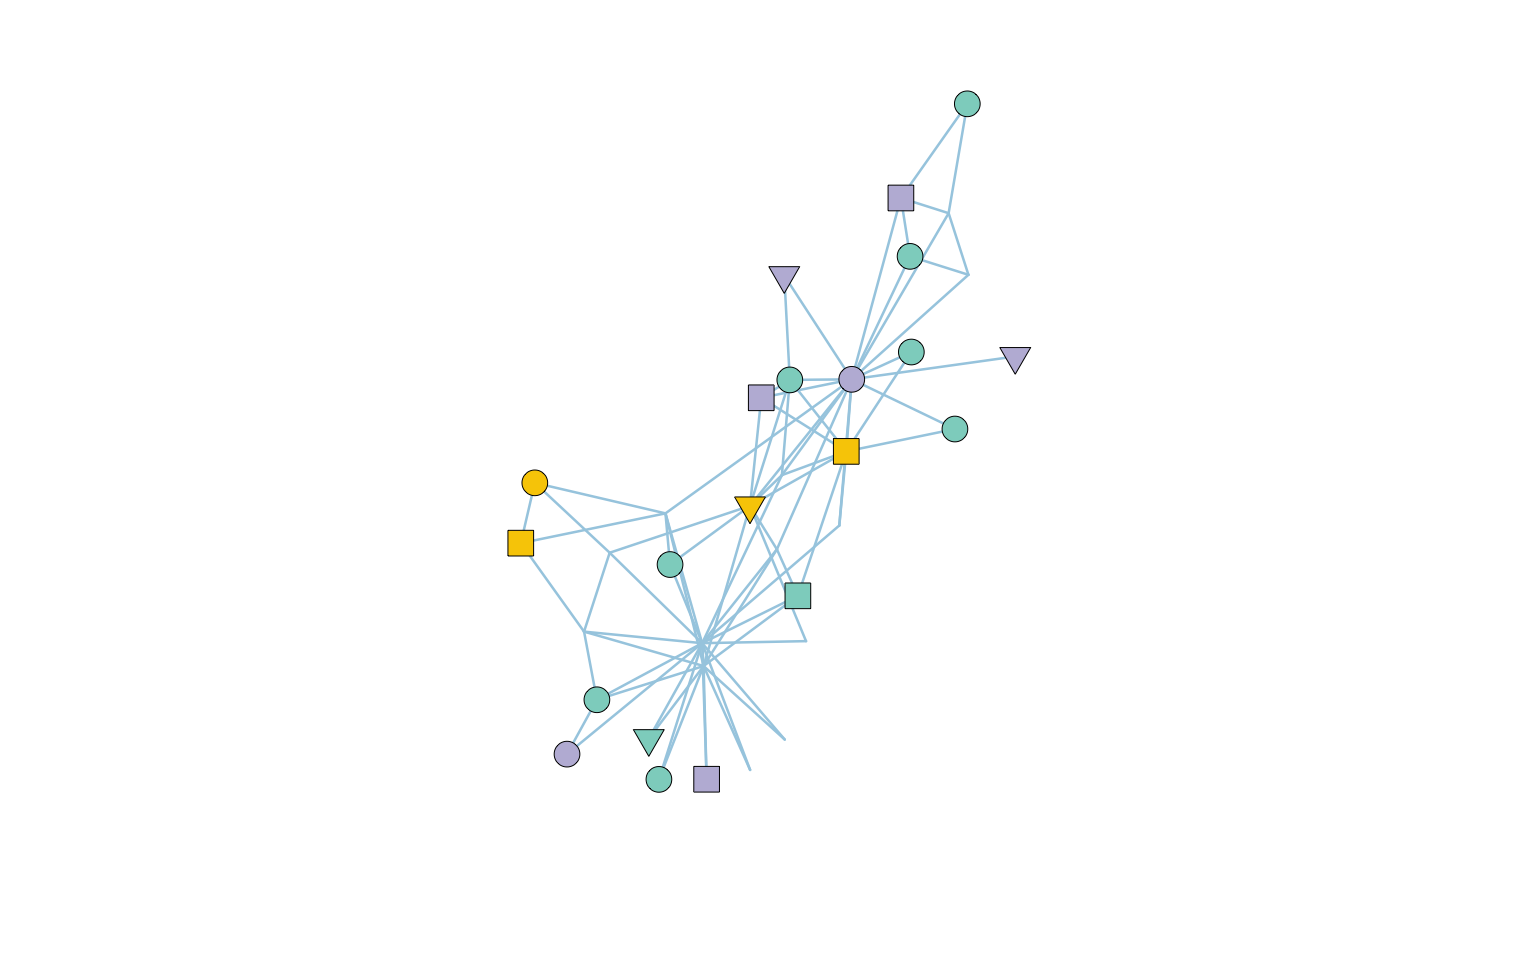
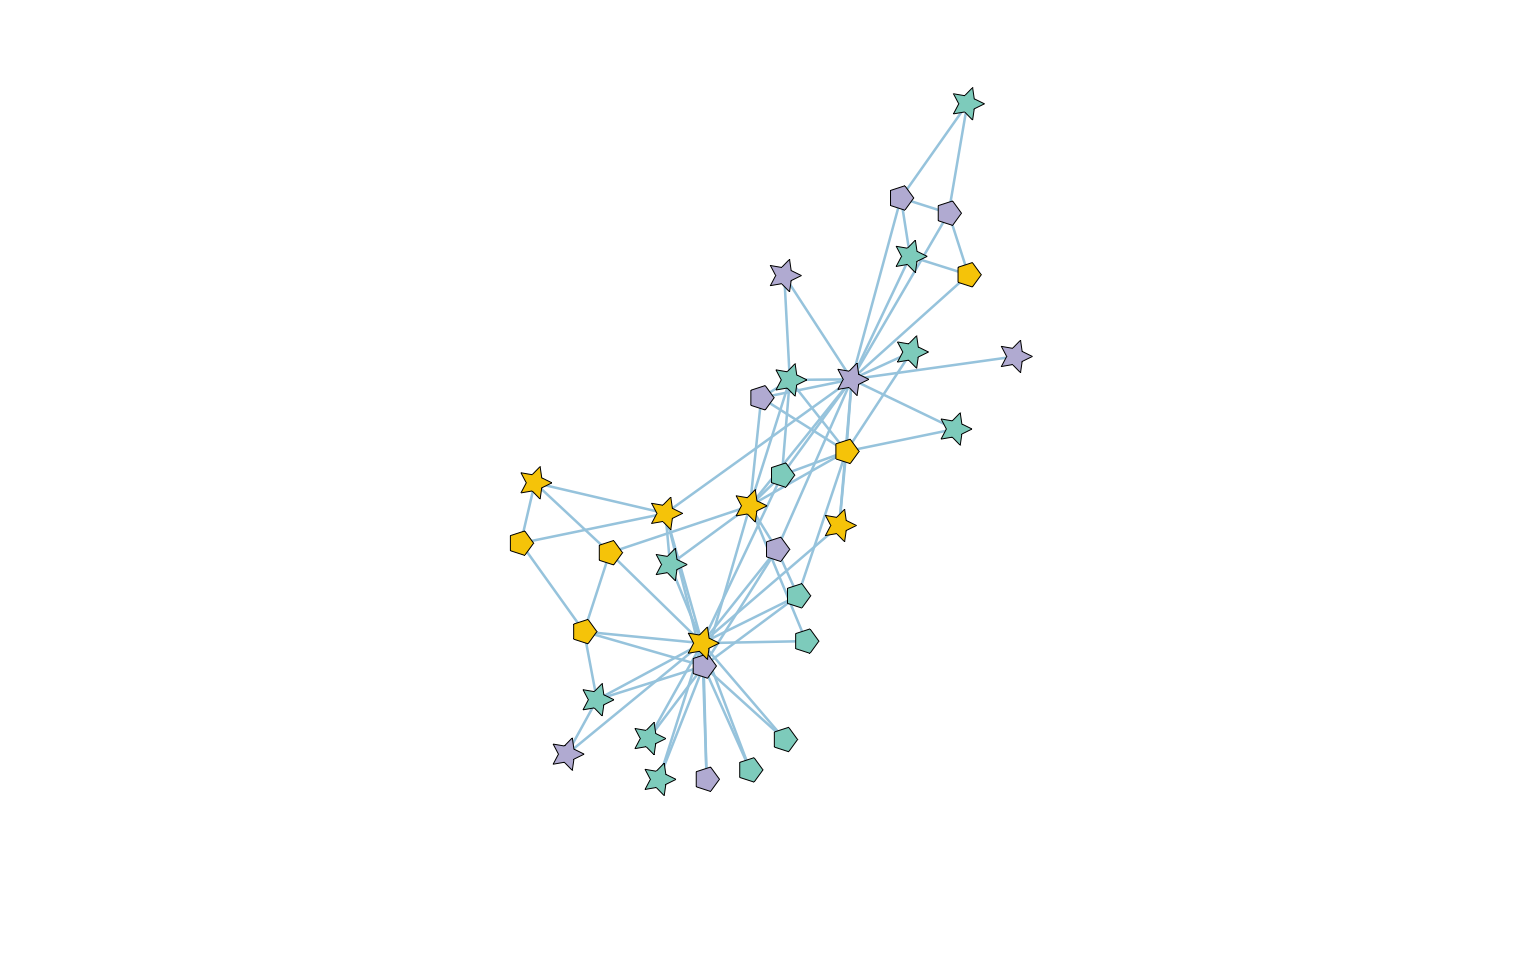
added 2025-05-22-metanet-shape

diff --git a/content/post/2025-05-22-metanet-shape/index.en.md b/content/post/2025-05-22-metanet-shape/index.en.md
@@ -20,7 +20,7 @@ comments: yes
 MetaNet默认使用的是`igraph`的绘图系统，其中自带的节点形状是非常有限的，只有`circle`、`square`、`csquare`、`rectangle`、`crectangle`、`vrectangle`、`pie`、`none`这几种形状，MetaNet在此基础上添加了更多常用形状，并且可以根据本文方法添加自定义形状。
 
 - 软件主页：<https://github.com/Asa12138/MetaNet> **大家可以帮忙在github上点点star⭐**，谢谢🙏
-- 详细英文版教程：<https://bookdown.org/Asa12138/metanet_book/>
+- 详细英文版教程：<https://bookdown.org/Asa12138/metanet_book>
 
 可以从 CRAN 安装稳定版：`install.packages("MetaNet")`  
 
@@ -86,12 +86,12 @@ c_net_plot(g2,vertex.color= pcutils::get_cols(4))
 
 <img src="{{< blogdown/postref >}}index.en_files/figure-html/unnamed-chunk-4-1.png" width="768" />
 
-也可以指定`star`、`ploygon`等形状。
+也可以指定`star`、`ploygon`等形状。 
 
 
 ```r
 c_net_plot(g2,vertex.color= pcutils::get_cols(4),
-           vertex.shape=c("circle","square","triangle2","star","polygon"),
+           vertex.shape=c("star","polygon"),vertex.norays=5,
            legend = F)
 ```
 
@@ -135,6 +135,7 @@ add_metanet_shape_star <- function() {
       vertex.size <- vertex.size[v]
     }
     norays <- params("vertex", "norays")
+    if (is.null(norays)) norays=5
     if (length(norays) != 1 && !is.null(v)) {
       norays <- norays[v]
     }
@@ -180,6 +181,7 @@ add_metanet_shape_star()
       vertex.size <- vertex.size[v]
     }
     norays <- params("vertex", "norays")
+    if (is.null(norays)) norays=5
     if (length(norays) != 1 && !is.null(v)) {
       norays <- norays[v]
     }

diff --git a/content/post/2025-05-22-metanet-comparison/index.en.md b/content/post/2025-05-22-metanet-comparison/index.en.md
@@ -2,7 +2,7 @@
 title: 使用MetaNet进行网络比较
 author: Asa
 date: '2025-05-23'
-slug: metanet- comparison
+slug: metanet-comparison
 categories:
   - R
 tags:
